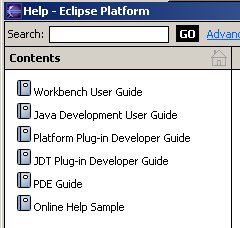
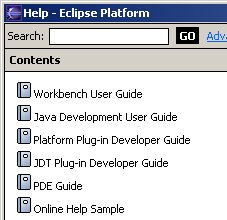
*** empty log message ***

Changed region(s): [[0.0, 0.0, 1.0, 1.0]]

diff --git a/bundles/org.eclipse.platform.doc.isv/guide/help_plugin_manifest.htm b/bundles/org.eclipse.platform.doc.isv/guide/help_plugin_manifest.htm
@@ -63,12 +63,12 @@ toc. </P>
 <b> Help-&gt;Help Contents</b>, you should see your example appear in the list
 of books: </P>
 
-<P ><img border="0" src="images/help_books.jpg" width="240" height="228" alt="List of books with example entry"> </P>
+<P ><img border="0" src="images/help_books.jpg" alt="List of books with example entry" width="227" height="220"> </P>
 
 <p>&nbsp;</p>
 <p>If you click on the &quot;Online Help Sample&quot;, you'll see your toc
 structure.</p>
-<p><img border="0" src="images/help_contents.jpg" width="918" height="598" alt="On-line help browser with sample book structure"></p>
+<p><img border="0" src="images/help_contents.jpg" alt="On-line help browser with sample book structure" width="675" height="468"></p>
 
 <p><a href="../hglegal.htm"><img border="0" src="../ngibmcpy.gif" alt="Copyright IBM Corp. and others 2000,2002."width="250" height="12"></a></p>
 
